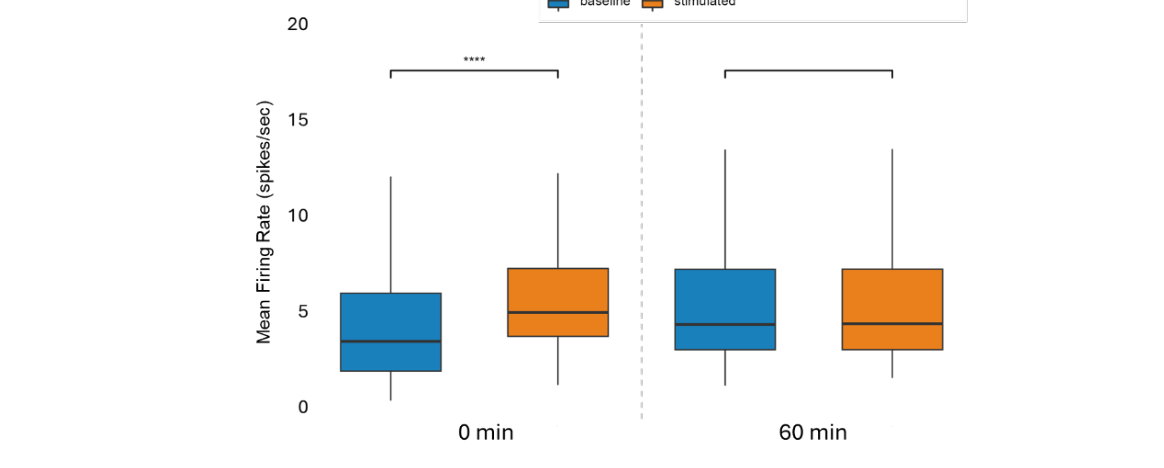
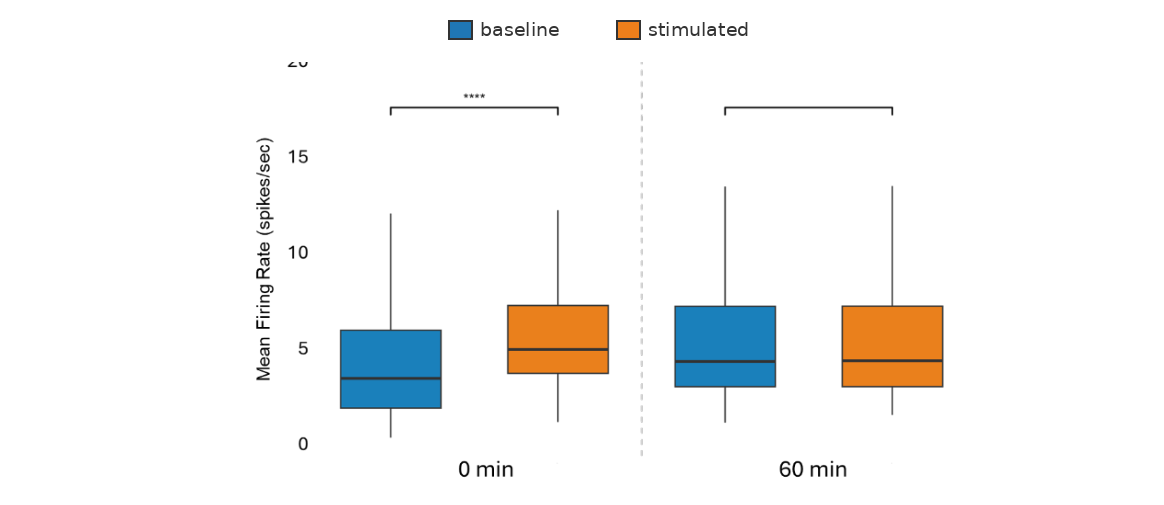
main header

diff --git a/index.html b/index.html
@@ -1,1 +1,2 @@
-<!doctype html><html lang="en"><head><meta charset="utf-8"><meta name="viewport" content="width=device-width,initial-scale=1"><title>Retinal Electrophysiology & Disease Modelling | Any Rodrigues</title><link rel="stylesheet" href="shared-header.css"><link rel="stylesheet" href="portfolio-hierarchy.css"><link rel="stylesheet" href="portfolio-unified-final.css"><style>body{margin:0;background:#008080;color:#111;font-family:Tahoma,Arial,sans-serif}.retina-wrap{max-width:1050px;margin:36px auto;padding:0 12px}.retina-window{background:#fff;border:3px solid;border-color:#fff #333 #333 #fff;box-shadow:3px 3px 0 #222}.retina-title{background:navy;color:white;padding:10px 14px;font-weight:bold}.retina-body{padding:28px 34px 40px}.retina-body h1{font-size:clamp(28px,4vw,42px);line-height:1.18;margin:8px 0 16px}.retina-body p{font-size:17px;line-height:1.65;max-width:850px}.retina-grid{display:grid;grid-template-columns:repeat(auto-fit,minmax(235px,1fr));gap:16px;margin-top:28px}.retina-card{background:#eee;border:2px outset #fff;padding:18px;color:#111;text-decoration:none}.retina-card strong{display:block;color:navy;font-size:19px;margin-bottom:8px}.retina-card span{line-height:1.5}.retina-nav{display:flex;flex-wrap:wrap;gap:10px;margin-bottom:18px}.retina-nav a{background:#c0c0c0;color:#111;border:2px outset #fff;padding:8px 14px;font-weight:bold;text-decoration:none}@media(max-width:600px){.retina-body{padding:20px}}</style></head><body><main class="retina-wrap"><nav class="retina-nav" aria-label="Site navigation"><a href="index.html">HOME</a><a href="research.html">RESEARCH</a><a href="crtd.html">RETINA THESIS</a><a href="projects.html">PROJECTS</a><a href="Any_Rodrigues_CV.pdf">CV</a></nav><div class="retina-window"><div class="retina-title">📁 retina_research.exe — research portfolio</div><div class="retina-body"><small>C:\ANY_RODRIGUES\RESEARCH\RETINA\</small><h1>Understanding retinal function through electrophysiology</h1><p>I am a molecular bioengineer with research experience in extracellular recordings from adult zebrafish retina and neuronal cultures. My master's thesis focused on establishing CMOS microelectrode-array recordings, characterizing light-evoked responses, and examining pharmacological modulation and injury-related changes.</p><p>My current scientific interests center on retinal function, neurophysiology, disease modelling and experimentally measurable functional phenotypes.</p><div class="retina-grid"><a class="retina-card" href="crtd.html"><strong>Retina research · CRTD</strong><span>Adult zebrafish retina, CMOS-MEA recordings, light stimulation and analysis.</span></a><a class="retina-card" href="dzne.html"><strong>Neural cultures · DZNE</strong><span>Olfactory neuronal preparations, co-cultures and MEA-based functional measurements.</span></a><a class="retina-card" href="neurodegenerative-disease-models.html"><strong>Disease modelling</strong><span>Independent reading on human-derived neural models and functional readouts.</span></a><a class="retina-card" href="projects.html"><strong>Proposed research</strong><span>Early-stage concepts for functional assays and disease-relevant neural phenotypes.</span></a></div><p style="font-size:14px;margin-top:30px">Completed experimental work is distinguished from independent reading and proposed projects throughout this portfolio.</p></div></div></main></body></html>
+<!doctype html><html lang="en"><head><meta charset="utf-8"><meta name="viewport" content="width=device-width,initial-scale=1"><title>Retinal Electrophysiology & Disease Modelling | Any Rodrigues</title><link rel="stylesheet" href="shared-header.css"><link rel="stylesheet" href="portfolio-hierarchy.css"><link rel="stylesheet" href="portfolio-unified-final.css"><style>body{margin:0;background:#008080;color:#111;font-family:Tahoma,Arial,sans-serif}.retina-wrap{max-width:1050px;margin:36px auto;padding:0 12px}.retina-window{background:#fff;border:3px solid;border-color:#fff #333 #333 #fff;box-shadow:3px 3px 0 #222}.retina-title{background:navy;color:white;padding:10px 14px;font-weight:bold}.retina-body{padding:28px 34px 40px}.retina-body h1{font-size:clamp(28px,4vw,42px);line-height:1.18;margin:8px 0 16px}.retina-body p{font-size:17px;line-height:1.65;max-width:850px}.retina-grid{display:grid;grid-template-columns:repeat(auto-fit,minmax(235px,1fr));gap:16px;margin-top:28px}.retina-card{background:#eee;border:2px outset #fff;padding:18px;color:#111;text-decoration:none}.retina-card strong{display:block;color:navy;font-size:19px;margin-bottom:8px}.retina-card span{line-height:1.5}.retina-nav{display:flex;flex-wrap:wrap;gap:10px;margin-bottom:18px}.retina-nav a{background:#c0c0c0;color:#111;border:2px outset #fff;padding:8px 14px;font-weight:bold;text-decoration:none}@media(max-width:600px){.retina-body{padding:20px}}</style><link rel="stylesheet" href="retina-design-sync.css">
+</head><body><main class="retina-wrap"><nav class="retina-nav" aria-label="Site navigation"><a href="index.html">HOME</a><a href="research.html">RESEARCH</a><a href="crtd.html">RETINA THESIS</a><a href="projects.html">PROJECTS</a><a href="Any_Rodrigues_CV.pdf">CV</a></nav><div class="retina-window"><div class="retina-title">📁 retina_research.exe — research portfolio</div><div class="retina-body"><small>C:\ANY_RODRIGUES\RESEARCH\RETINA\</small><h1>Understanding retinal function through electrophysiology</h1><p>I am a molecular bioengineer with research experience in extracellular recordings from adult zebrafish retina and neuronal cultures. My master's thesis focused on establishing CMOS microelectrode-array recordings, characterizing light-evoked responses, and examining pharmacological modulation and injury-related changes.</p><p>My current scientific interests center on retinal function, neurophysiology, disease modelling and experimentally measurable functional phenotypes.</p><div class="retina-grid"><a class="retina-card" href="crtd.html"><strong>Retina research · CRTD</strong><span>Adult zebrafish retina, CMOS-MEA recordings, light stimulation and analysis.</span></a><a class="retina-card" href="dzne.html"><strong>Neural cultures · DZNE</strong><span>Olfactory neuronal preparations, co-cultures and MEA-based functional measurements.</span></a><a class="retina-card" href="neurodegenerative-disease-models.html"><strong>Disease modelling</strong><span>Independent reading on human-derived neural models and functional readouts.</span></a><a class="retina-card" href="projects.html"><strong>Proposed research</strong><span>Early-stage concepts for functional assays and disease-relevant neural phenotypes.</span></a></div><p style="font-size:14px;margin-top:30px">Completed experimental work is distinguished from independent reading and proposed projects throughout this portfolio.</p></div></div></main></body></html>

diff --git a/retina-design-sync.css b/retina-design-sync.css
@@ -1,0 +1,11 @@
+/* Retina portfolio: same visual language as anyrodrigues.bio; no typewriter header. */
+#global-site-header, #global-site-header * {font-family:Arial,Helvetica,sans-serif !important;}
+#global-site-header .universal-site-identity h1 {font-family:Arial,Helvetica,sans-serif !important;font-size:clamp(38px,5vw,48px) !important;font-weight:700 !important;letter-spacing:-2px !important;line-height:1.08 !important;}
+#global-site-header .universal-site-identity p {font-family:Arial,Helvetica,sans-serif !important;font-size:12px !important;letter-spacing:0 !important;}
+#global-site-header .universal-site-nav a {font-family:Arial,Helvetica,sans-serif !important;font-size:14px !important;font-weight:700 !important;}
+#global-site-header .universal-status {font-family:Arial,Helvetica,sans-serif !important;font-size:12px !important;}
+/* The retina archive keeps its Explorer toolbar but uses the same readable typography. */
+body .window-content,body .window-content p,body .window-content h1,body .window-content h2,body .window-content h3,body .window-content a,body .document,body .document p,body .document h1,body .document h2,body .document h3 {font-family:Arial,Helvetica,sans-serif !important;}
+body .window-content h1,body .document h1 {letter-spacing:-.6px !important;}
+/* Keep real code/path strings monospaced, not page-wide headings. */
+body code,body pre,body kbd,body samp {font-family:'Courier New',monospace !important;}

diff --git a/crtd.html b/crtd.html
@@ -65,10 +65,13 @@ body {
 <link rel="stylesheet" href="portfolio-alignment-fix.css">
 <link rel="stylesheet" href="portfolio-unified-final.css"/>
 <style>
-/* Figure 6: show the complete source image, without cropping */
-.crtd-figure6-full {max-width:100% !important; overflow:visible !important;}
-.crtd-figure6-full img {display:block !important; width:100% !important; max-width:100% !important; height:auto !important; max-height:none !important; object-fit:contain !important; object-position:center !important; aspect-ratio:auto !important; clip-path:none !important;}
 </style>
+<style>
+/* Figure 6: centered, legible, and no oversized stretching */
+.crtd-results-figure.crtd-figure6-compact{max-width:760px;width:100%;box-sizing:border-box;margin:16px auto 22px;overflow:visible;}
+.crtd-results-figure.crtd-figure6-compact img{display:block;width:100%;max-width:100%;height:auto;max-height:none;object-fit:contain;}
+</style>
+<link rel="stylesheet" href="retina-design-sync.css">
 </head>
 <body><script src="shared-header.js"></script>
 <main class="desktop">

diff --git a/dzne.html b/dzne.html
@@ -37,6 +37,7 @@ body {
 </style><style>.research-notes{border:1px solid #aaa;background:#f8f8f8;padding:14px 16px;margin:14px 0}.research-notes h3{margin-top:0;color:#000080}.research-notes ul{margin:8px 0 0;padding-left:20px}.research-notes li{margin:6px 0}.ref-list{padding-left:22px}.ref-list li{margin:9px 0}.ref-list a{overflow-wrap:anywhere}.minor{font-size:12px;color:#555}.stain-table td:first-child{font-weight:bold;white-space:nowrap}@media(max-width:650px){.stain-table td:first-child{white-space:normal}}</style><style>.ref-cite{font-size:12px;white-space:nowrap;margin-left:2px}.ref-list li{margin-bottom:9px;overflow-wrap:anywhere}</style><link rel="stylesheet" href="desktop-unified.css"/>
 <link rel="stylesheet" href="portfolio-alignment-fix.css">
 <link rel="stylesheet" href="portfolio-unified-final.css"/>
+<link rel="stylesheet" href="retina-design-sync.css">
 </head>
 <body><script src="shared-header.js"></script>
 <main class="desktop">

diff --git a/neurodose.html b/neurodose.html
@@ -479,6 +479,7 @@ body > .page .nd-flow {grid-template-columns:repeat(3,minmax(0,1fr));}
 .nd-demo.maze-inline iframe {display:block;width:100%;max-width:660px;margin:0 auto;height:440px;border:0!important;background:#fff!important;overflow:hidden;}
 @media(max-width:680px){.nd-demo.maze-inline iframe{height:380px;}}
 </style><link rel="stylesheet" href="portfolio-unified-final.css"/>
+<link rel="stylesheet" href="retina-design-sync.css">
 </head>
 <body><script src="shared-header.js"></script>
 <div class="page">

diff --git a/projects.html b/projects.html
@@ -416,6 +416,7 @@ body > .page > main .window .file-grid > * { min-width:0 !important; }
 @media(max-width:680px){body > .page > main .window > .window-content {padding:14px !important;}}
 </style><link rel="stylesheet" href="portfolio-alignment-fix.css">
 <link rel="stylesheet" href="portfolio-unified-final.css"/>
+<link rel="stylesheet" href="retina-design-sync.css">
 </head>
 <body><script src="shared-header.js"></script>
 <div class="page">

diff --git a/research.html b/research.html
@@ -418,6 +418,7 @@ body > .page > main .window .file-grid > * { min-width:0 !important; }
 @media(max-width:680px){body > .page > main .window > .window-content {padding:14px !important;}}
 </style><link rel="stylesheet" href="portfolio-alignment-fix.css">
 <link rel="stylesheet" href="portfolio-unified-final.css"/>
+<link rel="stylesheet" href="retina-design-sync.css">
 </head>
 <body><script src="shared-header.js"></script>
 <div class="page">

diff --git a/neurodegenerative-disease-models.html b/neurodegenerative-disease-models.html
@@ -28,6 +28,7 @@ body {
 <link rel="stylesheet" href="desktop-unified.css"/>
 <link rel="stylesheet" href="portfolio-alignment-fix.css">
 <link rel="stylesheet" href="portfolio-unified-final.css"/>
+<link rel="stylesheet" href="retina-design-sync.css">
 </head>
 <body><script src="shared-header.js"></script>
 <div class="page interest-page">
